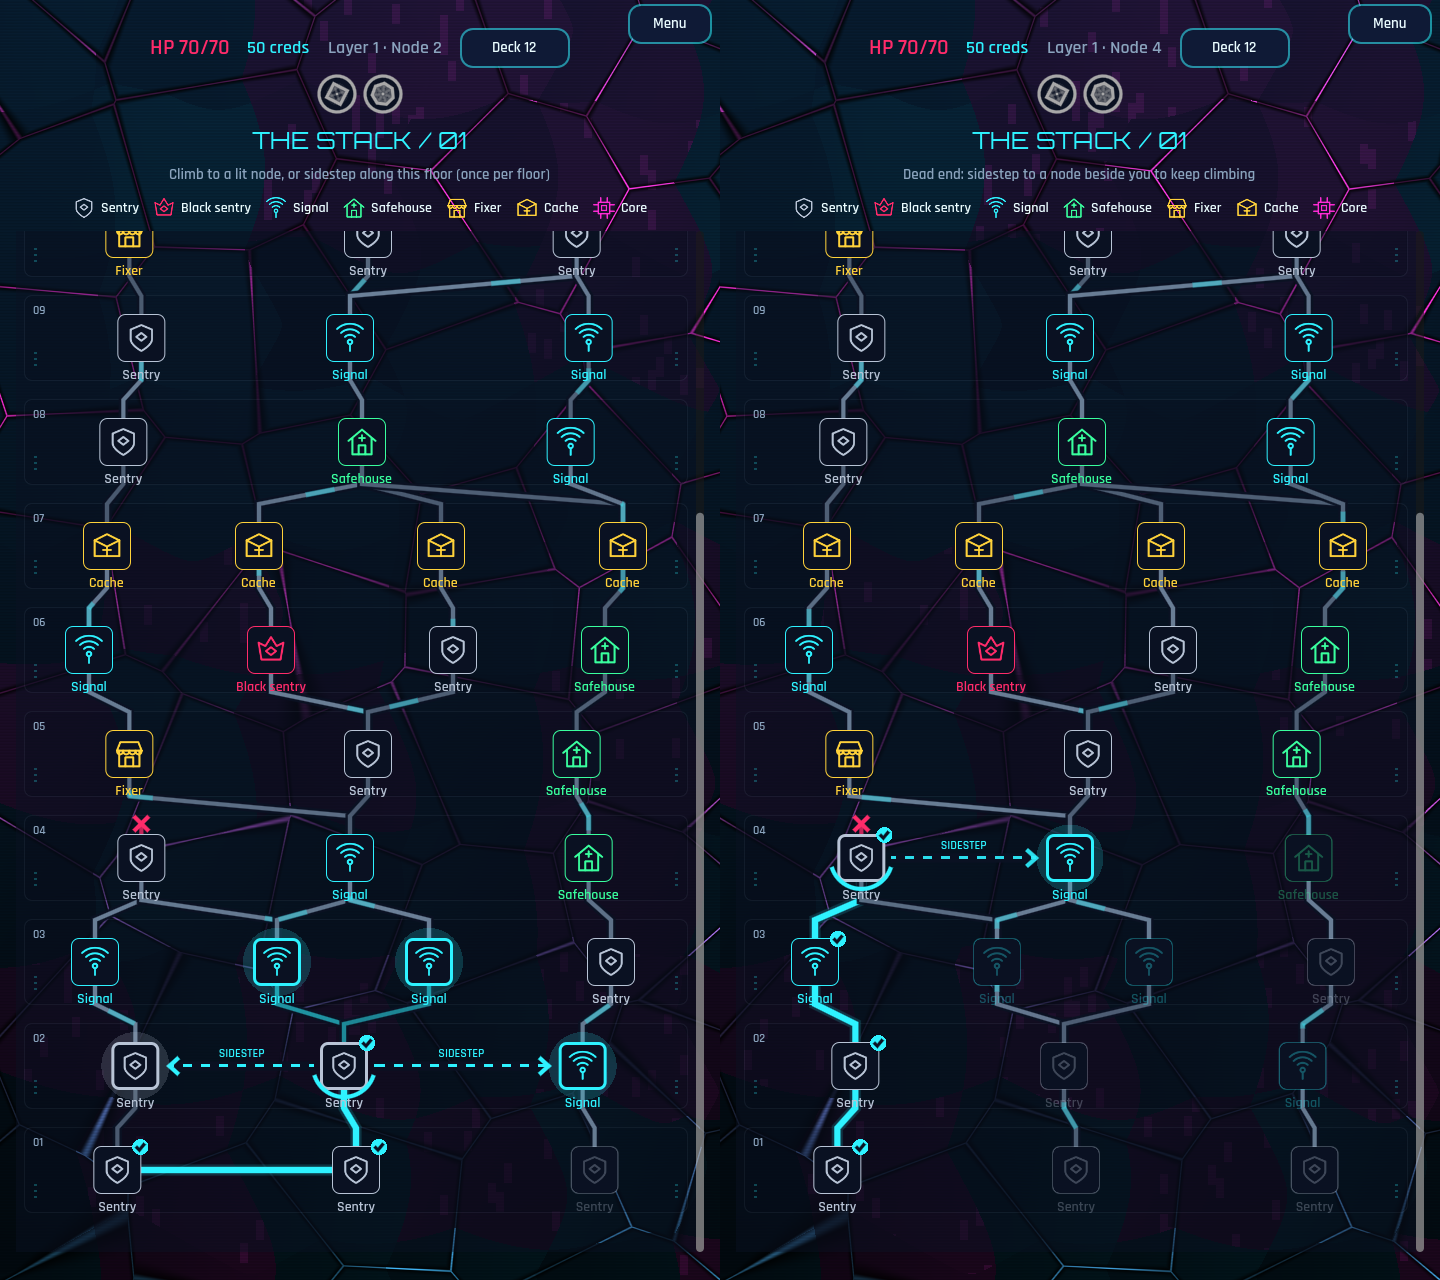
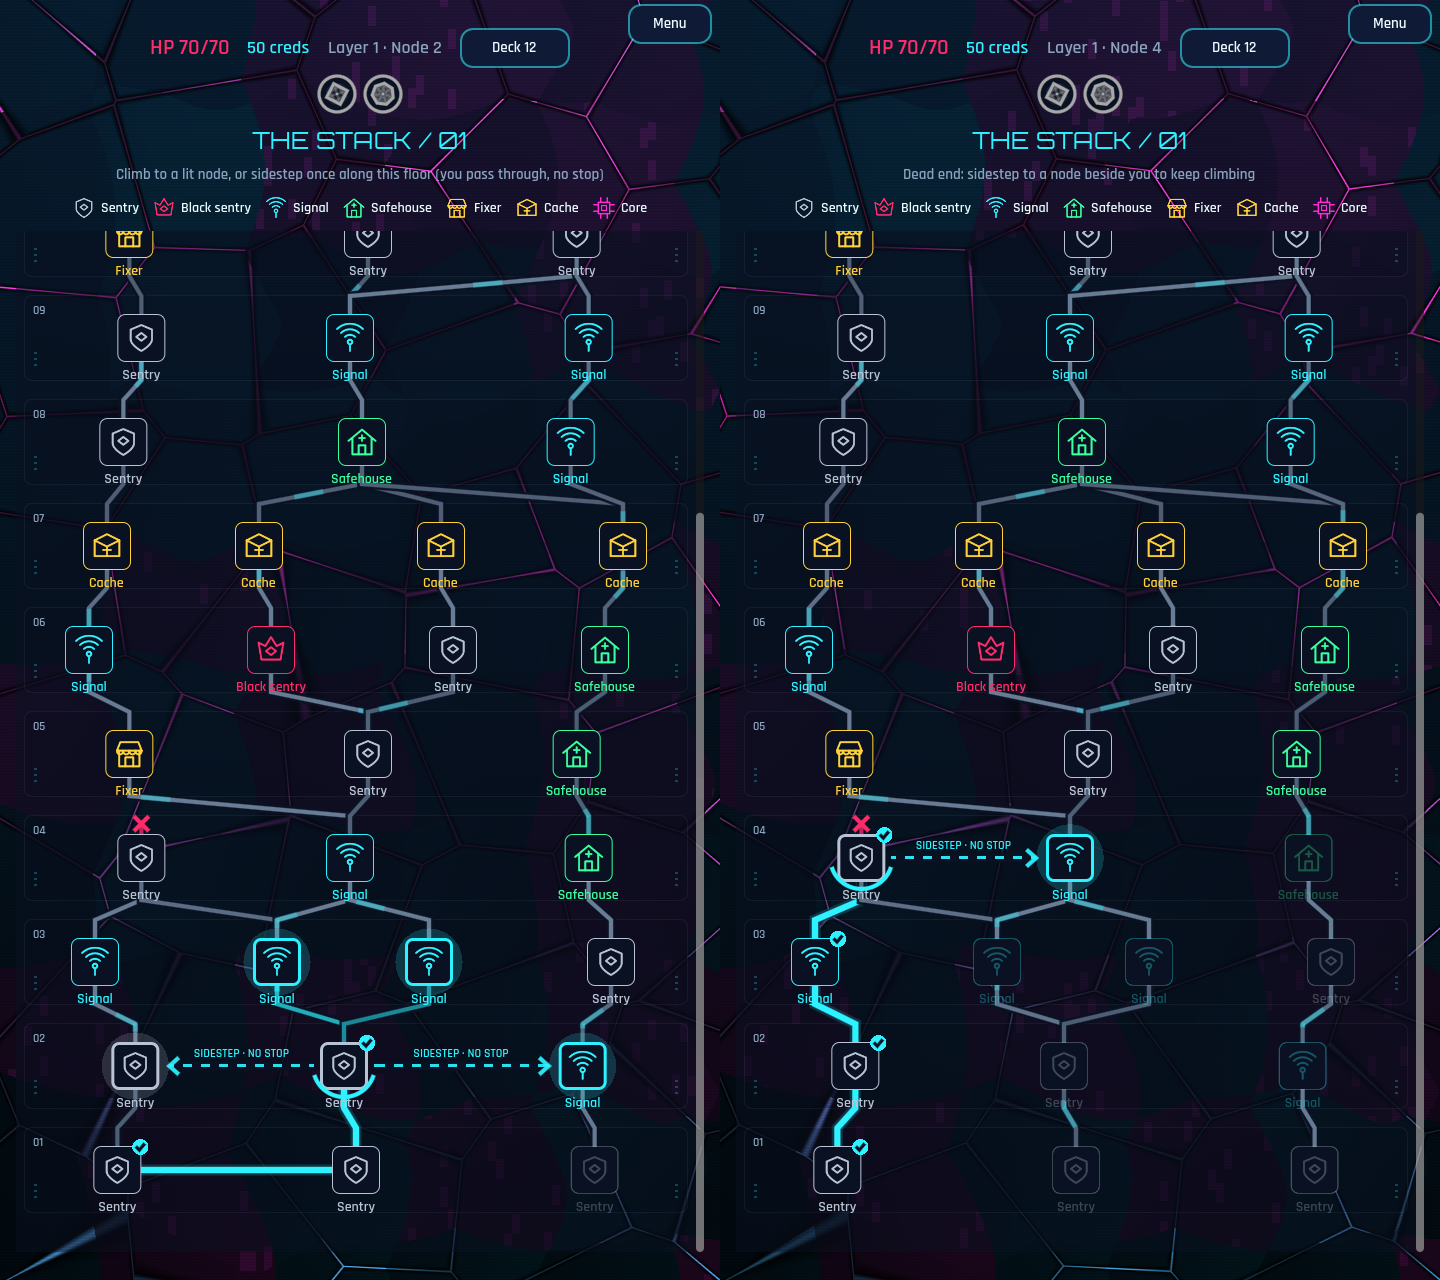
Sidesteps pass through: the node beside you is moved onto, not played
Stops sidesteps from farming extra shops, rests, caches or fights. Passed-through
nodes get no visited check on the map, and the arrow reads SIDESTEP · NO STOP.

Claude-Session: https://claude.ai/code/session_01LRZhx2L1FhCidh4NpsPhCo

diff --git a/CLAUDE.md b/CLAUDE.md
@@ -25,7 +25,7 @@ Original design only: don't copy cards, names, characters or look from existing 
   (counts, dust, craft/disenchant), `packs.gd`, `run_state.gd` (deck/HP/gold/talismans/heat,
   rest, shop, events; `to_dict`/`from_dict`), `run_save.gd` (run in progress, saved at every run screen change by
   `main._save_run`, resumed from the hub; a fight restarts from turn 1), `run_map.gd` (seeded branching map; `break_chance` cuts all uplinks of ~2 nodes per map, only where a row neighbour climbs on;
-  the run may sidestep to a row neighbour once per floor, `RunState.side_moves`/`side_row`), `run_outcomes.gd` (run-level ops for
+  the run may sidestep to a row neighbour once per floor, `RunState.side_moves`/`side_row`; a sidestep only moves, the node isn't played), `run_outcomes.gd` (run-level ops for
   events/pickups), `run_bot.gd` (plays whole runs for sims), `profile_bot.gd` (builds experienced/veteran/maxed saves for sims). Progression: XP levels, card mastery, heat.
   `jobs.gd`: every run is a job for one client faction (data/factions.json, 6 crews in 3 rival pairs) run
   against targets (the rival, plus heat mod "extra_targets"): >= half the picks the client's, targets banned
